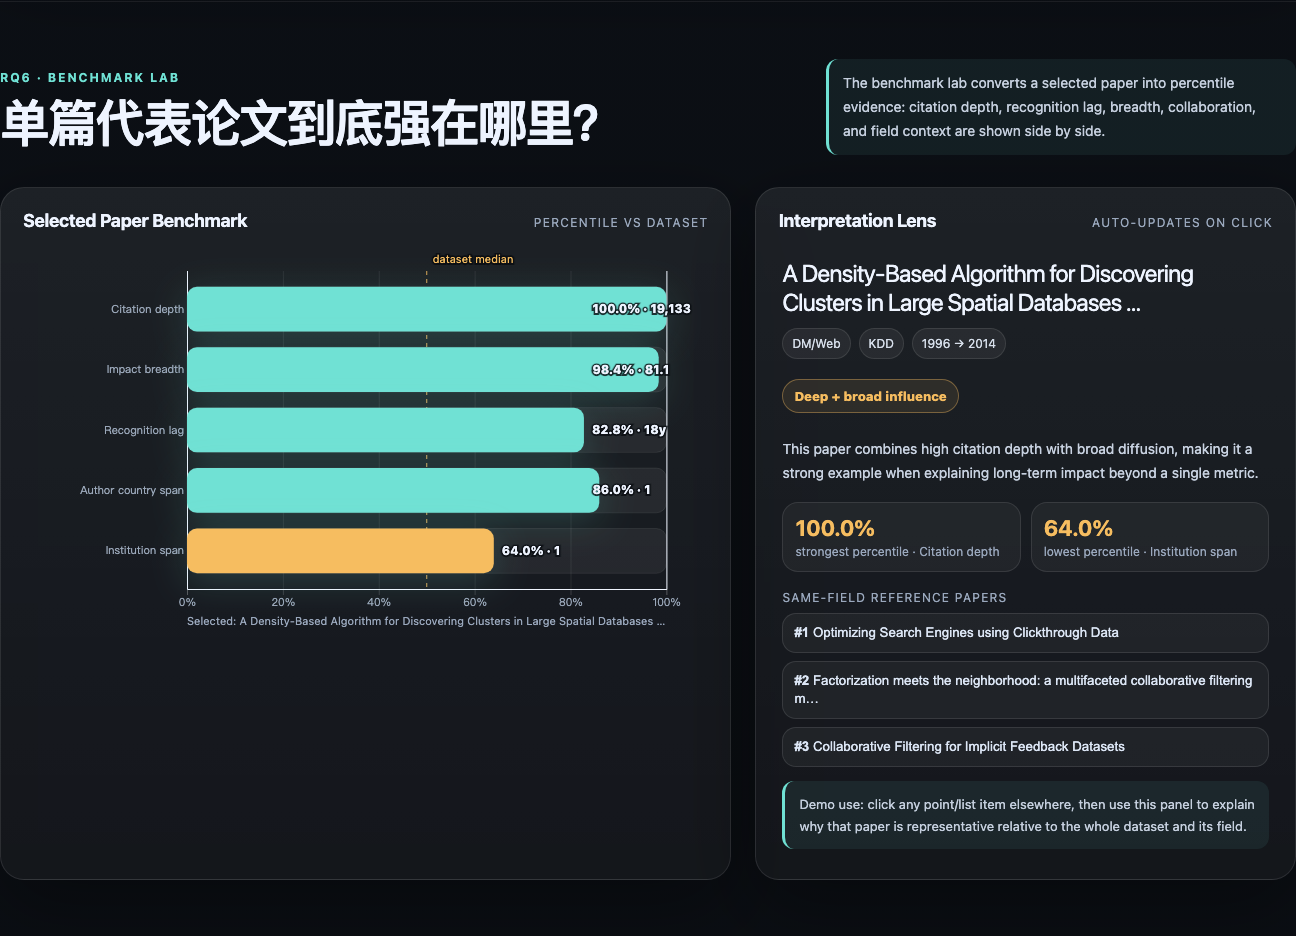
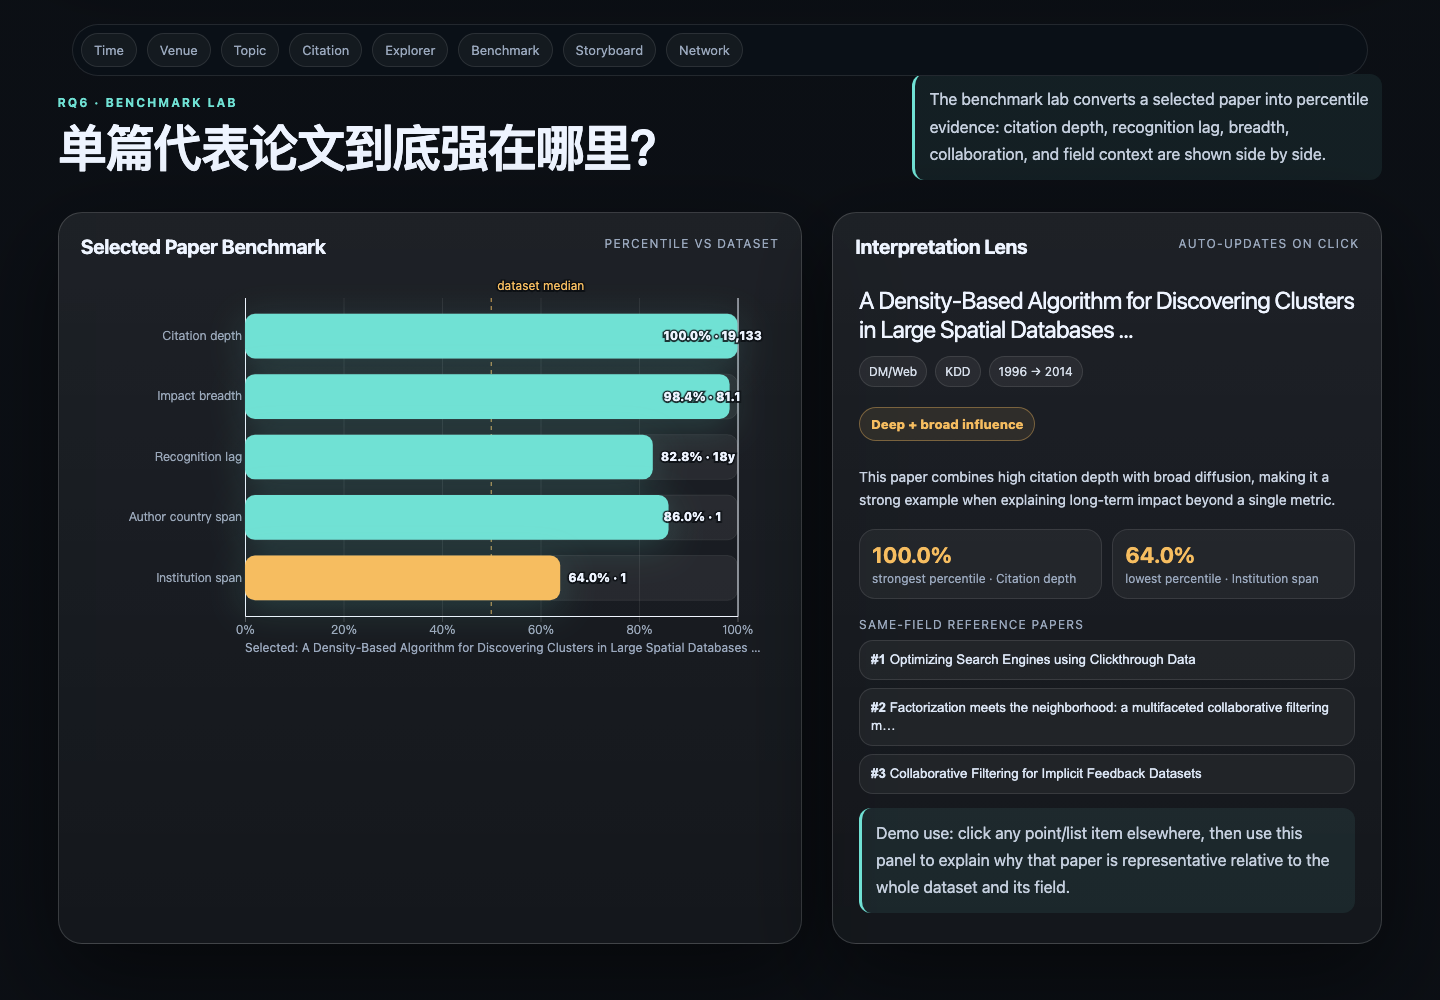
feat: add presentation mode polish

diff --git a/src/styles.css b/src/styles.css
@@ -67,6 +67,34 @@ a { color: inherit; }
   font-size: 13px;
 }
 .nav a:hover { color: var(--text); border-color: rgba(112,225,212,0.6); }
+.presentation-toggle {
+  position: fixed;
+  right: clamp(18px, 4vw, 42px);
+  bottom: 22px;
+  z-index: 16;
+  display: inline-flex;
+  align-items: center;
+  gap: 9px;
+  border: 1px solid rgba(112,225,212,0.42);
+  background: rgba(10, 16, 24, 0.86);
+  color: var(--text);
+  border-radius: 999px;
+  padding: 10px 14px;
+  box-shadow: 0 16px 50px rgba(0,0,0,.35);
+  backdrop-filter: blur(14px);
+  cursor: pointer;
+  font-weight: 700;
+}
+.presentation-toggle span {
+  color: var(--accent);
+  font-size: 11px;
+  letter-spacing: .08em;
+  text-transform: uppercase;
+}
+.presentation-toggle[aria-pressed="true"] {
+  background: linear-gradient(135deg, rgba(112,225,212,.22), rgba(184,161,255,.18));
+  border-color: rgba(112,225,212,.78);
+}
 .eyebrow, .section-kicker {
   text-transform: uppercase;
   letter-spacing: 0.16em;
@@ -200,6 +228,69 @@ h2 { font-size: clamp(28px, 4vw, 50px); line-height: 1.04; margin: 8px 0 14px; l
 }
 .tooltip b { color: var(--accent); }
 footer { padding: 34px clamp(20px, 5vw, 72px) 54px; color: var(--muted); border-top: 1px solid rgba(255,255,255,0.08); }
+
+.presentation-mode .hero {
+  min-height: 100vh;
+  padding-top: 112px;
+  padding-bottom: 72px;
+}
+.presentation-mode .nav {
+  position: fixed;
+  background: rgba(10, 16, 24, .72);
+  border: 1px solid rgba(255,255,255,.10);
+  border-radius: 999px;
+  padding: 8px;
+  backdrop-filter: blur(18px);
+}
+.presentation-mode .section {
+  min-height: 100vh;
+  padding-top: 76px;
+  padding-bottom: 76px;
+  scroll-margin-top: 18px;
+}
+.presentation-mode .section-copy p:not(.section-kicker),
+.presentation-mode .reading-note,
+.presentation-mode .claim-card p,
+.presentation-mode .story-card p {
+  font-size: 16px;
+}
+.presentation-mode .chart-card,
+.presentation-mode .claim-panel,
+.presentation-mode .story-card,
+.presentation-mode .detail-card {
+  box-shadow: 0 32px 90px rgba(0, 0, 0, .48);
+  border-color: rgba(255,255,255,.16);
+}
+.presentation-mode .chart-head {
+  align-items: flex-start;
+}
+.presentation-mode .chart-head h3 {
+  font-size: 20px;
+}
+.presentation-mode .chart-head span {
+  max-width: 210px;
+  line-height: 1.45;
+  text-align: right;
+}
+.presentation-mode .chart.tall {
+  min-height: 430px;
+}
+.presentation-mode .grid-3 {
+  grid-template-columns: repeat(3, minmax(300px, 1fr));
+}
+.presentation-mode svg text {
+  font-size: 12px;
+}
+
+@media (min-width: 1180px) {
+  .presentation-mode main { padding-left: clamp(36px, 4vw, 64px); padding-right: clamp(36px, 4vw, 64px); }
+  .presentation-mode .grid-2 { gap: 30px; }
+  .presentation-mode .grid-3 { gap: 20px; }
+}
+
+@media (max-width: 1180px) {
+  .grid-3 { grid-template-columns: 1fr; }
+}
 
 @media (max-width: 920px) {
   .summary-grid, .two-col, .grid-2, .grid-2.uneven, .grid-3 { grid-template-columns: 1fr; }

diff --git a/src/app.js b/src/app.js
@@ -12,6 +12,8 @@ const showTip = (event, html) => {
 };
 const hideTip = () => tooltip.attr("hidden", true);
 
+initPresentationMode();
+
 const num = (d, fallback = 0) => {
   const v = +d;
   return Number.isFinite(v) ? v : fallback;
@@ -60,6 +62,27 @@ Promise.all([
   console.error(err);
   document.body.insertAdjacentHTML("afterbegin", `<pre style="padding:20px;color:#ffb4c1">Data loading failed: ${err.message}</pre>`);
 });
+
+function initPresentationMode() {
+  const root = document.body;
+  const toggle = document.getElementById("presentation-toggle");
+  const params = new URLSearchParams(window.location.search);
+  const shouldStart = params.get("present") === "1" || window.location.hash === "#present";
+
+  const setMode = enabled => {
+    root.classList.toggle("presentation-mode", enabled);
+    if (toggle) toggle.setAttribute("aria-pressed", enabled ? "true" : "false");
+  };
+
+  setMode(shouldStart);
+  if (toggle) toggle.addEventListener("click", () => setMode(!root.classList.contains("presentation-mode")));
+  window.addEventListener("keydown", event => {
+    const tag = event.target && event.target.tagName ? event.target.tagName.toLowerCase() : "";
+    if (event.key.toLowerCase() === "p" && !["input", "textarea", "select"].includes(tag)) {
+      setMode(!root.classList.contains("presentation-mode"));
+    }
+  });
+}
 
 function normalize(data) {
   for (const row of data.papers) {

diff --git a/index.html b/index.html
@@ -20,6 +20,10 @@
       <a href="#storyboard">Storyboard</a>
       <a href="#network">Network</a>
     </nav>
+    <button id="presentation-toggle" class="presentation-toggle" type="button" aria-pressed="false" title="Toggle projector-friendly presentation mode with P">
+      Presentation mode
+      <span>press P</span>
+    </button>
     <p class="eyebrow">PKU Data Visualization HW4 · Test of Time Award</p>
     <h1>哪些计算机研究经得起时间检验？</h1>
     <p class="subtitle">Visualizing long-term impact in computer science through award timing, research fields, topic evolution, citation trajectories, and institutional diffusion.</p>
@@ -203,7 +207,7 @@
       <div class="section-title-row">
         <div>
           <p class="section-kicker">RQ7 · Story Builder</p>
-          <h2>怎样把图表变成满分报告和展示主线？</h2>
+          <h2>怎样把图表变成报告和展示主线？</h2>
         </div>
         <p class="reading-note" id="storyboard-note"></p>
       </div>

diff --git a/docs/presentation_pack.md b/docs/presentation_pack.md
@@ -150,6 +150,23 @@ Suggested wording:
 
 > 这组可视化显示，经得起时间检验的研究需要用多维指标观察。它们往往经历延迟确认，在特定学术共同体中沉淀，并通过引用、主题、具体论文案例和机构网络扩散。Test of Time Award 因此提供了一个观察长期科学影响力的窗口。
 
+## Live demo mode
+
+For classroom projection, use the projector-friendly mode before taking screenshots or presenting live:
+
+```text
+http://127.0.0.1:8765/index.html?present=1
+```
+
+You can also press `P` on the page to toggle this mode. It increases section spacing, keeps navigation visible, and improves chart-card readability on 16:9 projector screenshots.
+
+Suggested live route:
+
+1. Open the hero in presentation mode and state the core research question.
+2. Use the top nav anchors in order: Time → Venue → Topic → Citation → Explorer → Benchmark → Network.
+3. In Explorer, search or sort for one representative paper, click it, then move to Benchmark Lab to explain its percentile profile.
+4. Close with Methods / Limitations and the conclusion slide.
+
 ## Backup assets
 
 Use these if live demo fails:

diff --git a/README.md b/README.md
@@ -24,7 +24,7 @@ GitHub Pages 目标地址：<https://leejamesss.github.io/pku-dataviz-hw4-test-o
 
 ## Demo 预览图
 
-不安装任何环境时，可以先通过下面几张截图了解当前网页效果。完整交互版请按“本地运行”部分启动静态服务器后查看。
+不安装任何环境时，可以先通过下面几张截图了解当前网页效果。完整交互版请按“本地运行”部分启动静态服务器后查看。课堂投影或截图时可打开 `http://127.0.0.1:8765/index.html?present=1`，或在页面中按 `P` 切换 Presentation mode。
 
 ![Homepage overview](docs/demo/homepage-overview.png)
 

diff --git a/docs/work_board.md b/docs/work_board.md
@@ -81,7 +81,7 @@
 - 检查 summary cards、五个模块、tooltip、详情卡、reading notes。
 - 检查所有数据文件存在，路径均为相对路径。
 - 检查 README、报告贡献记录、最终 QA checklist。
-- 更新 README demo 截图，让未安装环境的读者能直接看到当前成果。
+- 更新 README demo 截图；截图前建议使用 `?present=1` 或按 `P` 打开 presentation mode，保证投影和 16:9 截图可读。
 - 最终合并所有队友 PR 后再做一次全站截图/展示检查。
 
 ## 报告中 A 的贡献写法

diff --git a/docs/final_qa_checklist.md b/docs/final_qa_checklist.md
@@ -38,7 +38,7 @@ http://127.0.0.1:8765/index.html
 - [x] Explorer 的 search / sort / field filter / paper list 正常工作。
 - [x] Benchmark Lab 的 percentile bars / interpretation lens / same-field peers 正常工作。
 - [x] B-F 主要模块末尾有 report claim cards，可复制为最终报告发现。
-- [ ] 最终提交前截图备份关键页面。
+- [ ] 最终提交前用 presentation mode 备份关键页面截图：`http://127.0.0.1:8765/index.html?present=1`，或进入页面后按 `P`。
 
 ## 3. 内容质量检查
 
